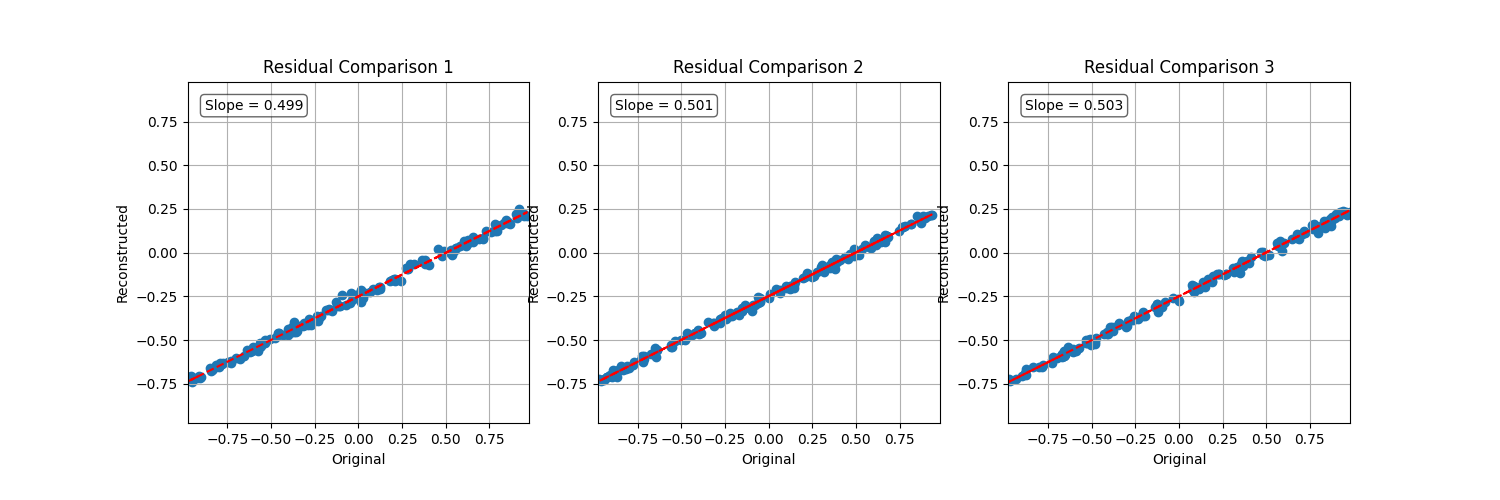
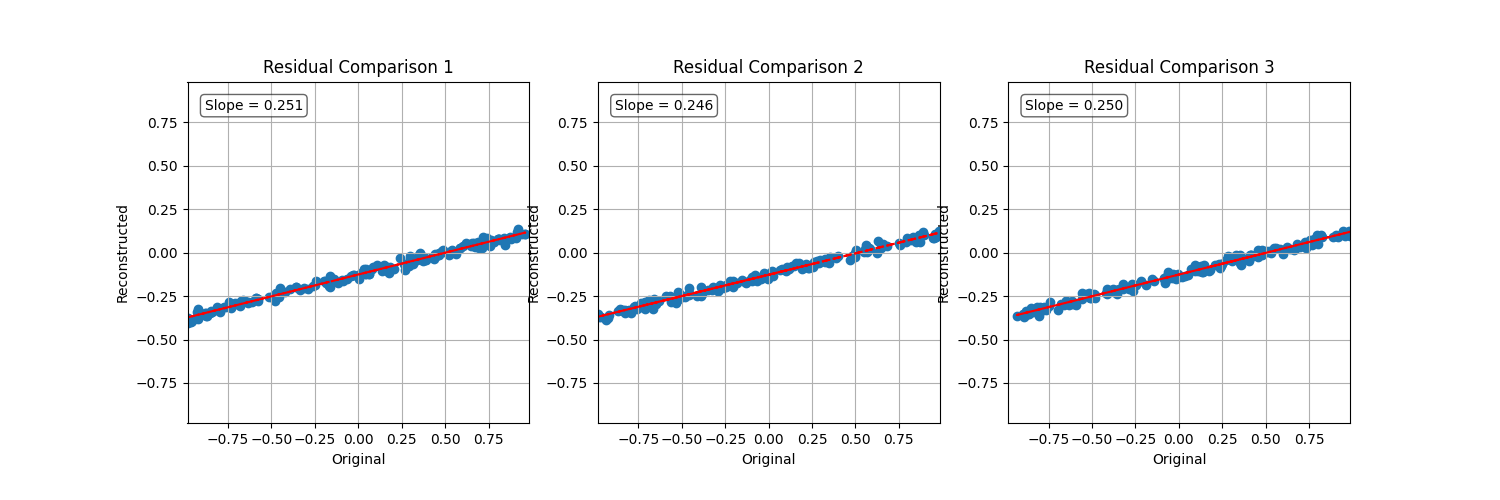
added ehands multiplication

diff --git a/ehands_qcrank_vertex_classification.py b/ehands_qcrank_vertex_classification.py
@@ -121,8 +121,24 @@ class VertexClassifier:
             fig.show()
         
         return qc.compose(qc_add, qubits=[q_a, q_b])
+
+    def ehands_multiplication(self, qc, q_a, q_b, verbose=False):
+        """
+        Output is on q_a
+        """
+        qc_mult = QuantumCircuit(2)
+
+        qc_mult.rz(np.pi/2, 0)
+        qc_mult.cx(1, 0)
+
+        if verbose:
+            print("Multiplication Circuit")
+            fig = qc_mult.draw("mpl")
+            fig.show()
+
+        return qc.compose(qc_mult, qubits=[q_a, q_b])
     
-    def add_iso_qubit_for_ehands(self, qc, data_q, placement_q, weight, negation=True, verbose=False):
+    def add_iso_qubit_for_ehands_add(self, qc, data_q, placement_q, weight, negation=True, verbose=False):
         qc_iso = QuantumCircuit(1, 1)
         qc_iso.ry(np.arccos(self.isovalue), 0)
 
@@ -133,22 +149,41 @@ class VertexClassifier:
         qc.barrier()
 
         return qc
+
+    def add_k_qubit_for_ehands_mult(self, qc, data_q, placement_q, k, verbose=False):
+        qc_k = QuantumCircuit(1, 1)
+        qc_k.ry(np.arccos(k), 0)
+
+        qc.compose(qc_k, placement_q, inplace=True)
+
+        qc.barrier()
+        qc = self.ehands_multiplication(qc, data_q, placement_q, verbose=False)
+        qc.barrier()
+
+        return qc
     
     def init_data(self, make_iso):
         self.di = DataInfo(self.n_cubes, (-0.99, 0.99), make_iso=make_iso)
 
-    def encode(self, verbose=False):
+    def encode(self, operations, verbose=False):
         # encode sample data into qcrank
         self.eqd = EncodedQData(self.di, measure=False, verbose=verbose)
-
-        self.qc_main = QuantumCircuit(self.di.num_q + self.n_cubes, self.di.num_q + self.n_cubes)
+        total_q = self.di.num_q + operations * self.n_cubes
+        print(f"total q: {total_q}")
+        self.qc_main = QuantumCircuit(total_q, total_q)
         self.qc_main.compose(self.eqd.qcEL[0], list(range(self.di.num_q)), inplace=True)
     
     def compose_iso_qubits(self, weight, verbose=False):
         for i in range(self.n_cubes):
             q_a = self.di.data_qL[i]
             q_b = self.di.num_q + i 
-            self.qc_main = self.add_iso_qubit_for_ehands(self.qc_main, q_a, q_b, self.isovalue, weight, verbose=verbose)
+            self.qc_main = self.add_iso_qubit_for_ehands_add(self.qc_main, q_a, q_b, self.isovalue, weight, verbose=verbose)
+    
+    def compose_k_qubits(self, k, verbose=False):
+        for i in range(self.n_cubes):
+            q_a = self.di.data_qL[i]
+            q_b = self.di.num_q + self.n_cubes + i
+            self.qc_main = self.add_k_qubit_for_ehands_mult(self.qc_main, q_a, q_b, k, verbose=verbose)
 
     def add_meas(self):
         self.qc_main.barrier()
@@ -370,13 +405,52 @@ def test_qcrank_ehands_single_iso_n_data(n_cubes, isovalue, weight):
         # initialize data and isovalue arrays
         vc = VertexClassifier(n_cubes, isovalue)
         vc.init_data(False)
-        vc.encode(verbose)
+        vc.encode(1, verbose)
 
         # add iso value qubit 
         vc.compose_iso_qubits(weight, verbose)
 
         if verbose:
             display_statevector(vc.qc_main)
+
+        # Add measurement
+        vc.add_meas()
+
+        # Run Simulation
+        n_shots = vc.di.n_data * (2**12)
+        countsL = run_sim_job_qcrank(vc.eqd, sim, n_shots, verbose)
+
+        # Recover the data from QC
+        vc.recover_data(n_shots, countsL, all_data_list, all_rec_list, verbose)
+        
+        # verbose for first iteration to draw circuit
+        verbose = False
+        
+    print("Returning data and recovered data lists")
+    return all_rec_list, all_data_list
+
+def test_qcrank_ehands_add_mult(n_cubes, isovalue, weight, k):
+    print("RUNNING TEST")
+    verbose = True
+
+    all_data_list = [[] for _ in range(n_cubes)]
+    all_rec_list = [[] for _ in range(n_cubes)]
+
+    sim = configure_aer_sim()
+    
+    for _ in range(20):
+        # initialize data and isovalue arrays
+        vc = VertexClassifier(n_cubes, isovalue)
+        vc.init_data(False)
+        vc.encode(2, verbose)
+
+        # add iso value qubits
+        vc.compose_iso_qubits(weight, verbose)
+        # add k qubits
+        vc.compose_k_qubits(k)
+
+        #if verbose:
+            #display_statevector(vc.qc_main)
 
         # Add measurement
         vc.add_meas()
@@ -438,5 +512,7 @@ def display_residual_analysis(n_cubes, all_data_list, all_rec_list, table):
 n_cubes = 3
 isovalue = 0.5
 weight = 0.5
-all_rec_list, all_data_list = test_qcrank_ehands_single_iso_n_data(n_cubes, isovalue, weight)
+k = 0.5
+#all_rec_list, all_data_list = test_qcrank_ehands_single_iso_n_data(n_cubes, isovalue, weight)
+all_rec_list, all_data_list = test_qcrank_ehands_add_mult(n_cubes, isovalue, weight, k)
 display_residual_analysis(n_cubes, all_data_list, all_rec_list, False)
